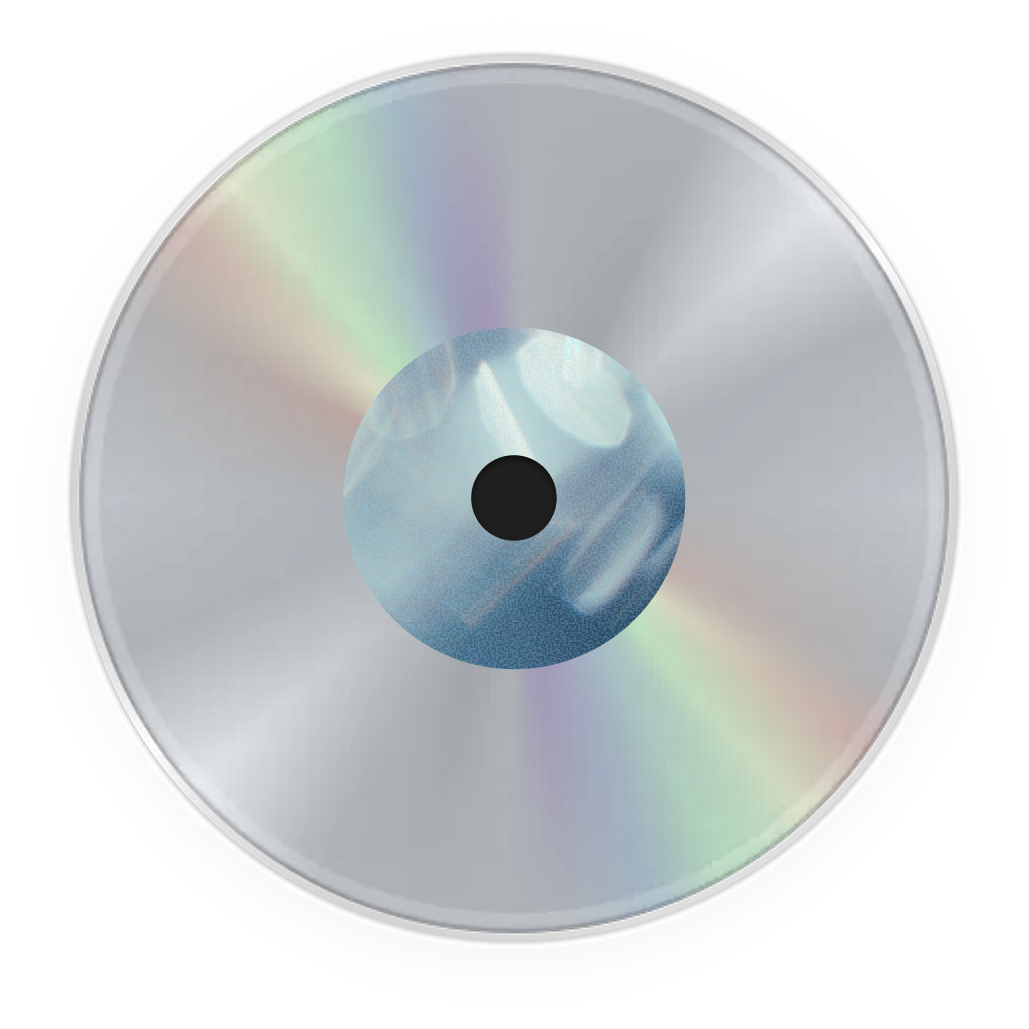
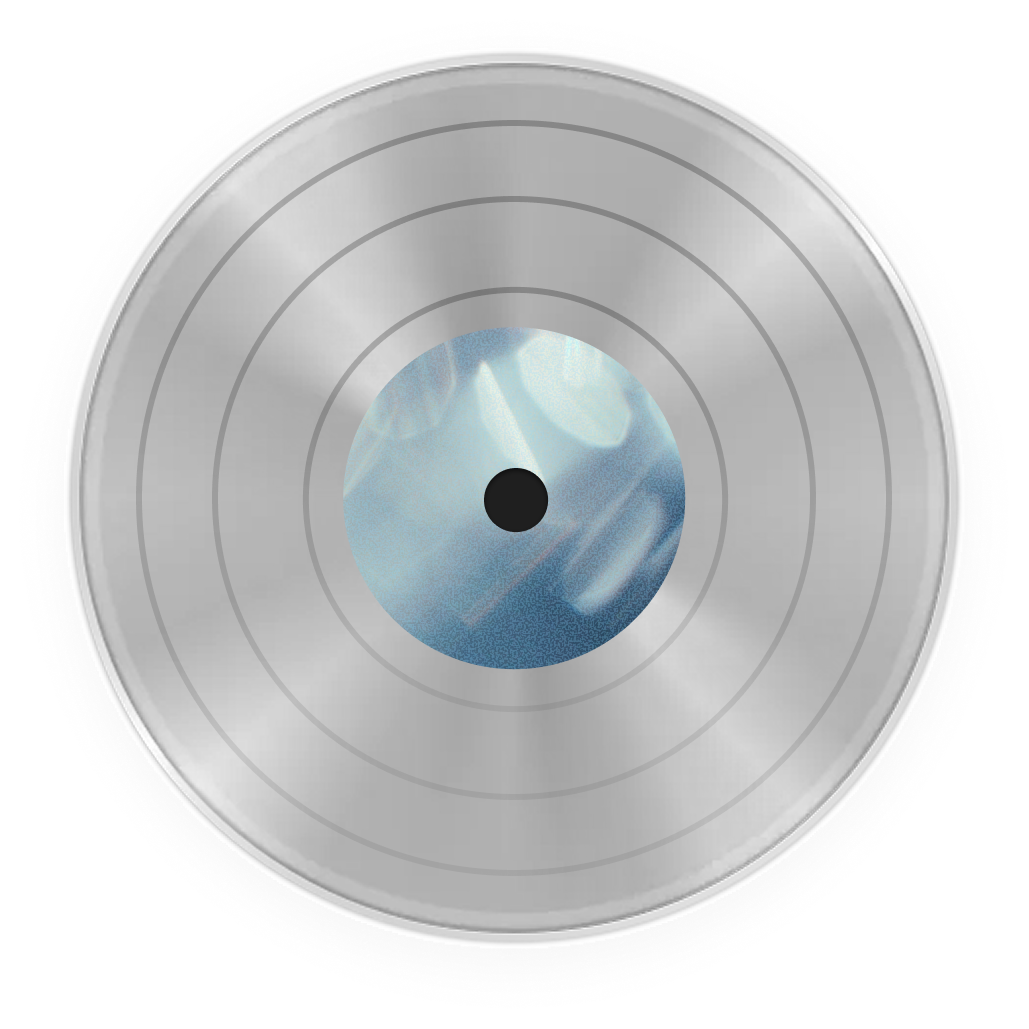
updated song card image

diff --git a/s2a2/main.js b/s2a2/main.js
@@ -1,7 +1,7 @@
 document.addEventListener('DOMContentLoaded', ()=>{
   let focusedPlayer = null;
 
-  function createFocusedPlayer(imgSrc, audioSrc){
+  function createFocusedPlayer(recordImgSrc, audioSrc, songArtSrc){
     // remove existing
     removeFocusedPlayer();
 
@@ -14,13 +14,13 @@ document.addEventListener('DOMContentLoaded', ()=>{
     const discWrap = document.createElement('div');
     discWrap.className = 'player-disc';
     const img = document.createElement('img');
-    img.src = imgSrc;
+    img.src = recordImgSrc;
     img.style.width = '100%';
     img.style.height = '100%';
     img.style.objectFit = 'cover';
+    img.style.borderRadius = '50%';
     discWrap.appendChild(img);
-    // Don't auto-spin - only spin when playing
-    // discWrap.classList.add('spin');
+    discWrap.classList.add('spin');
     
     // Create tonearm and base elements with proper grouping
     const tonearmContainer = document.createElement('div');
@@ -42,15 +42,6 @@ document.addEventListener('DOMContentLoaded', ()=>{
     const tonearmImg = document.createElement('img');
     tonearmImg.src = 'tonearm.png';
     tonearmImg.alt = 'Tonearm';
-    tonearmImg.onerror = function() {
-      console.log('Tonearm image failed to load');
-      // Add a fallback background color if image fails
-      tonearm.style.background = 'rgba(200, 200, 200, 0.8)';
-      tonearm.style.border = '1px solid #ccc';
-    };
-    tonearmImg.onload = function() {
-      console.log('Tonearm image loaded successfully');
-    };
     tonearm.appendChild(tonearmImg);
     tonearm.style.transformOrigin = '50% 5%'; 
     
@@ -68,13 +59,17 @@ document.addEventListener('DOMContentLoaded', ()=>{
   const songInfoBlock = document.createElement('div');
   songInfoBlock.className = 'song-info-block';
   
-  // Album art thumbnail (left side)
-  const albumArt = document.createElement('div');
-  albumArt.className = 'song-album-art';
-  const thumbnail = document.createElement('img');
-  thumbnail.src = imgSrc;
-  thumbnail.alt = 'Album art';
-  albumArt.appendChild(thumbnail);
+  // Song art (left side)
+  const songArt = document.createElement('div');
+  songArt.className = 'song-art';
+  const songThumbnail = document.createElement('img');
+  songThumbnail.src = songArtSrc;
+  songThumbnail.alt = 'Song art';
+  songThumbnail.style.width = '48px';
+  songThumbnail.style.height = '48px';
+  songThumbnail.style.objectFit = 'cover';
+  songThumbnail.style.borderRadius = '4px';
+  songArt.appendChild(songThumbnail);
   
   // Song details (middle)
   const songDetails = document.createElement('div');
@@ -95,16 +90,10 @@ document.addEventListener('DOMContentLoaded', ()=>{
   pauseIcon.className = 'control-icon pause-icon';
   pauseIcon.innerHTML = '⏸';
   
-  // External link icon
-  const externalIcon = document.createElement('div');
-  externalIcon.className = 'control-icon external-icon';
-  externalIcon.innerHTML = '⧉';
-  
   controlIcons.appendChild(pauseIcon);
-  controlIcons.appendChild(externalIcon);
   
   // Assemble the song info block
-  songInfoBlock.appendChild(albumArt);
+  songInfoBlock.appendChild(songArt);
   songInfoBlock.appendChild(songDetails);
   songInfoBlock.appendChild(controlIcons);
 
@@ -213,21 +202,31 @@ document.addEventListener('DOMContentLoaded', ()=>{
   document.querySelectorAll('.album').forEach(album =>{
     const sleeve = album.querySelector('.sleeve img');
     const audio = album.dataset.audio; // path
+    const recordImages = {
+      "DON'T TAKE THE MONEY": 'record2.png',
+      'YOU-HAHAHA': 'record3.png',
+      'KYOTO': 'record1.png',
+    };
+    const songImages = {
+      "DON'T TAKE THE MONEY": 'song2.jpg',
+      'YOU-HAHAHA': 'song3.png',
+      'KYOTO': 'song1.jpg',
+    };
+
     if(audio){
       album.addEventListener('click', (e)=>{
         // avoid reacting to clicks on interactive elements inside if any
         if(e.target.closest('.player-controls')) return;
-        // determine which image to use: if the click was on the record, prefer the record image
-        const recordImgEl = e.target.closest('.record') ? e.target.closest('.record').querySelector('img') : null;
-        const chosenImgSrc = recordImgEl && recordImgEl.src ? recordImgEl.src : sleeve.src;
+        const recordImgSrc = recordImages[album.dataset.trackTitle] || sleeve.src;
+        const songArtSrc = songImages[album.dataset.trackTitle] || sleeve.src;
 
         // if already focused on this album/image, close
-        if(focusedPlayer && focusedPlayer.querySelector('img') && focusedPlayer.querySelector('img').src === chosenImgSrc){
+        if(focusedPlayer && focusedPlayer.querySelector('img') && focusedPlayer.querySelector('img').src === recordImgSrc){
           removeFocusedPlayer();
           return;
         }
         removeFocusedPlayer();
-        const player = createFocusedPlayer(chosenImgSrc, audio);
+        const player = createFocusedPlayer(recordImgSrc, audio, songArtSrc);
         // set metadata if present
         const title = album.dataset.trackTitle || '';
         const artist = album.dataset.trackArtist || '';
@@ -267,4 +266,32 @@ document.addEventListener('DOMContentLoaded', ()=>{
       removeFocusedPlayer();
     }
   });
+
+  // Update the player bar thumbnail dynamically
+  const updatePlayerBarThumbnail = () => {
+    const thumbImg = document.querySelector('.bar-thumb img');
+    const currentTitle = document.querySelector('.bar-title')?.textContent;
+
+    if (thumbImg && currentTitle) {
+      const albumImages = {
+        "DON'T TAKE THE MONEY": 'song2.jpg',
+        'HAHAHA': 'song3.png',
+        'KYOTO': 'song1.jpg'
+      };
+
+      if (albumImages[currentTitle]) {
+        thumbImg.src = albumImages[currentTitle];
+      }
+    }
+  };
+
+  // Call the function whenever the player bar title changes
+  const observer = new MutationObserver(() => {
+    updatePlayerBarThumbnail();
+  });
+
+  const barTitleElement = document.querySelector('.bar-title');
+  if (barTitleElement) {
+    observer.observe(barTitleElement, { childList: true });
+  }
 });

diff --git a/s2a2/style.css b/s2a2/style.css
@@ -95,13 +95,110 @@
 /* player overlay */
 .player-overlay{position:fixed;inset:0;display:none;align-items:center;justify-content:center;background:rgba(0,0,0,0.75);z-index:80;transition:opacity .24s ease}
 .player-overlay.active{display:flex;opacity:1}
-.player-card{background:var(--bg);padding:36px;border-radius:8px;box-shadow:0 30px 80px rgba(0,0,0,0.6);max-width:760px;width:92%;display:flex;flex-direction:column;align-items:center;transform:translateY(8px);transition:transform .28s cubic-bezier(.2,.9,.2,1),opacity .2s}
+.player-card{display:flex;align-items:center;justify-content:space-between;background:var(--bg);padding:16px 24px;border-radius:8px;box-shadow:0 4px 12px rgba(0,0,0,0.4);max-width:760px;width:92%;flex-direction:column;align-items:center;transform:translateY(8px);transition:transform .28s cubic-bezier(.2,.9,.2,1),opacity .2s}
 .player-overlay.active .player-card{transform:translateY(0)}
 .player-disc{width:340px;height:340px;border-radius:50%;overflow:hidden;margin-bottom:26px;box-shadow:0 12px 40px rgba(0,0,0,.6);border:1px solid rgba(245,245,245,0.04)}
 .player-controls{display:flex;align-items:center;gap:18px}
 .player-toggle{background:transparent;border:1px solid rgba(245,245,245,0.08);color:var(--accent);padding:12px 20px;border-radius:8px;cursor:pointer;font-weight:500}
 .player-toggle.playing{background:rgba(245,245,245,0.06)}
 .player-close{position:absolute;top:18px;right:18px;color:var(--muted);background:transparent;border:none;font-size:20px;cursor:pointer}
+
+/* Update player card styling */
+.player-card {
+  display: flex;
+  align-items: center;
+  justify-content: space-between;
+  background: var(--bg);
+  padding: 16px 24px;
+  border-radius: 8px;
+  box-shadow: 0 4px 12px rgba(0, 0, 0, 0.4);
+}
+
+.player-card .bar-thumb {
+  width: 48px;
+  height: 48px;
+  border-radius: 4px;
+  overflow: hidden;
+}
+
+.player-card .bar-thumb img {
+  width: 100%;
+  height: 100%;
+  object-fit: cover;
+}
+
+.player-card .bar-title {
+  font-family: 'DM Mono', monospace;
+  font-weight: 500;
+  font-size: 16px;
+  color: var(--accent);
+  text-transform: uppercase;
+}
+
+.player-card .bar-artist {
+  font-family: 'DM Mono', monospace;
+  font-weight: 400;
+  font-size: 14px;
+  color: var(--muted);
+  text-transform: uppercase;
+}
+
+.player-card .bar-controls {
+  display: flex;
+  align-items: center;
+  gap: 12px;
+}
+
+.bar-controls .control-icon {
+  width: 24px;
+  height: 24px;
+  display: flex;
+  align-items: center;
+  justify-content: center;
+  cursor: pointer;
+  color: var(--muted);
+  font-size: 20px;
+  transition: color 0.18s ease;
+}
+
+.bar-controls .control-icon:hover {
+  color: var(--accent);
+}
+
+/* Remove the random icon on the right */
+.bar-controls .bar-external {
+  display: none;
+}
+
+/* Ensure the pause icon toggles to play */
+.bar-toggle {
+  background: transparent;
+  border: none;
+  color: var(--accent);
+  font-size: 20px;
+  cursor: pointer;
+}
+.bar-toggle.playing {
+  content: 'Pause';
+}
+.bar-toggle:not(.playing) {
+  content: 'Play';
+}
+
+/* Ensure the play icon toggles to pause */
+.play-icon {
+  display: block;
+}
+.play-icon.active {
+  display: none;
+}
+
+.pause-icon {
+  display: none;
+}
+.pause-icon.active {
+  display: block;
+}
 
 /* dim the page content while player is open */
 body.player-open .wrap{opacity:.18;pointer-events:none;transition:opacity .22s ease}
@@ -296,13 +393,12 @@ body.player-open .album{opacity:.38;transform:scale(.98);transition:opacity .18s
   color: var(--accent);
 }
 
-.pause-icon{
+.play-icon{
   font-size: 12px;
 }
 
-.external-icon{
-  font-size: 14px;
-  transform: rotate(45deg);
+.pause-icon{
+  font-size: 12px;
 }
 
 /* When only the record should be visible, hide surrounding UI */

diff --git a/s1fp/style.css b/s1fp/style.css
@@ -33,7 +33,7 @@ body {
     display: flex;
 }
 
-/* Cosmic background */
+/* background */
 .cosmic-background {
     position: absolute;
     top: 0;
